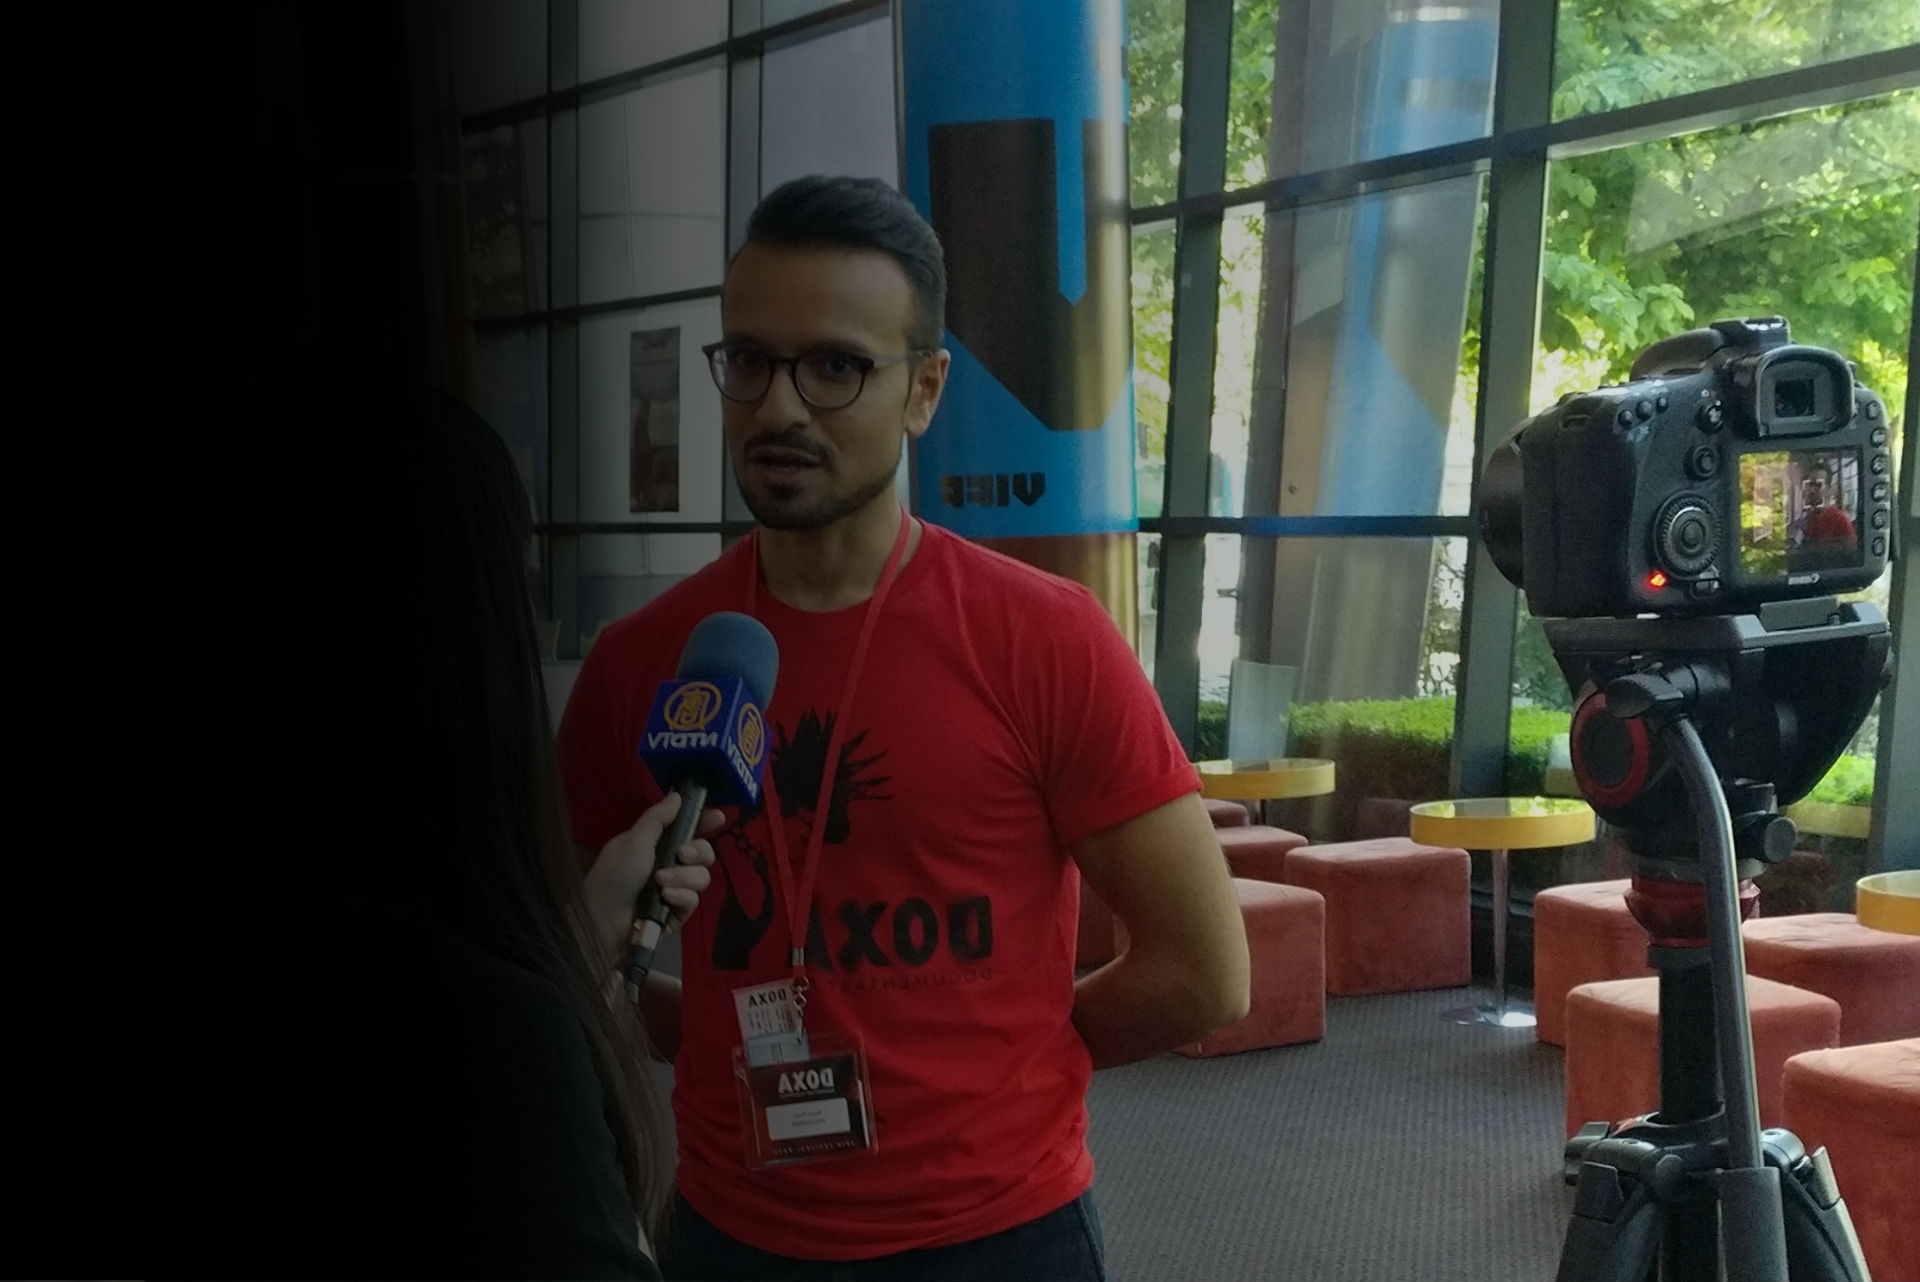
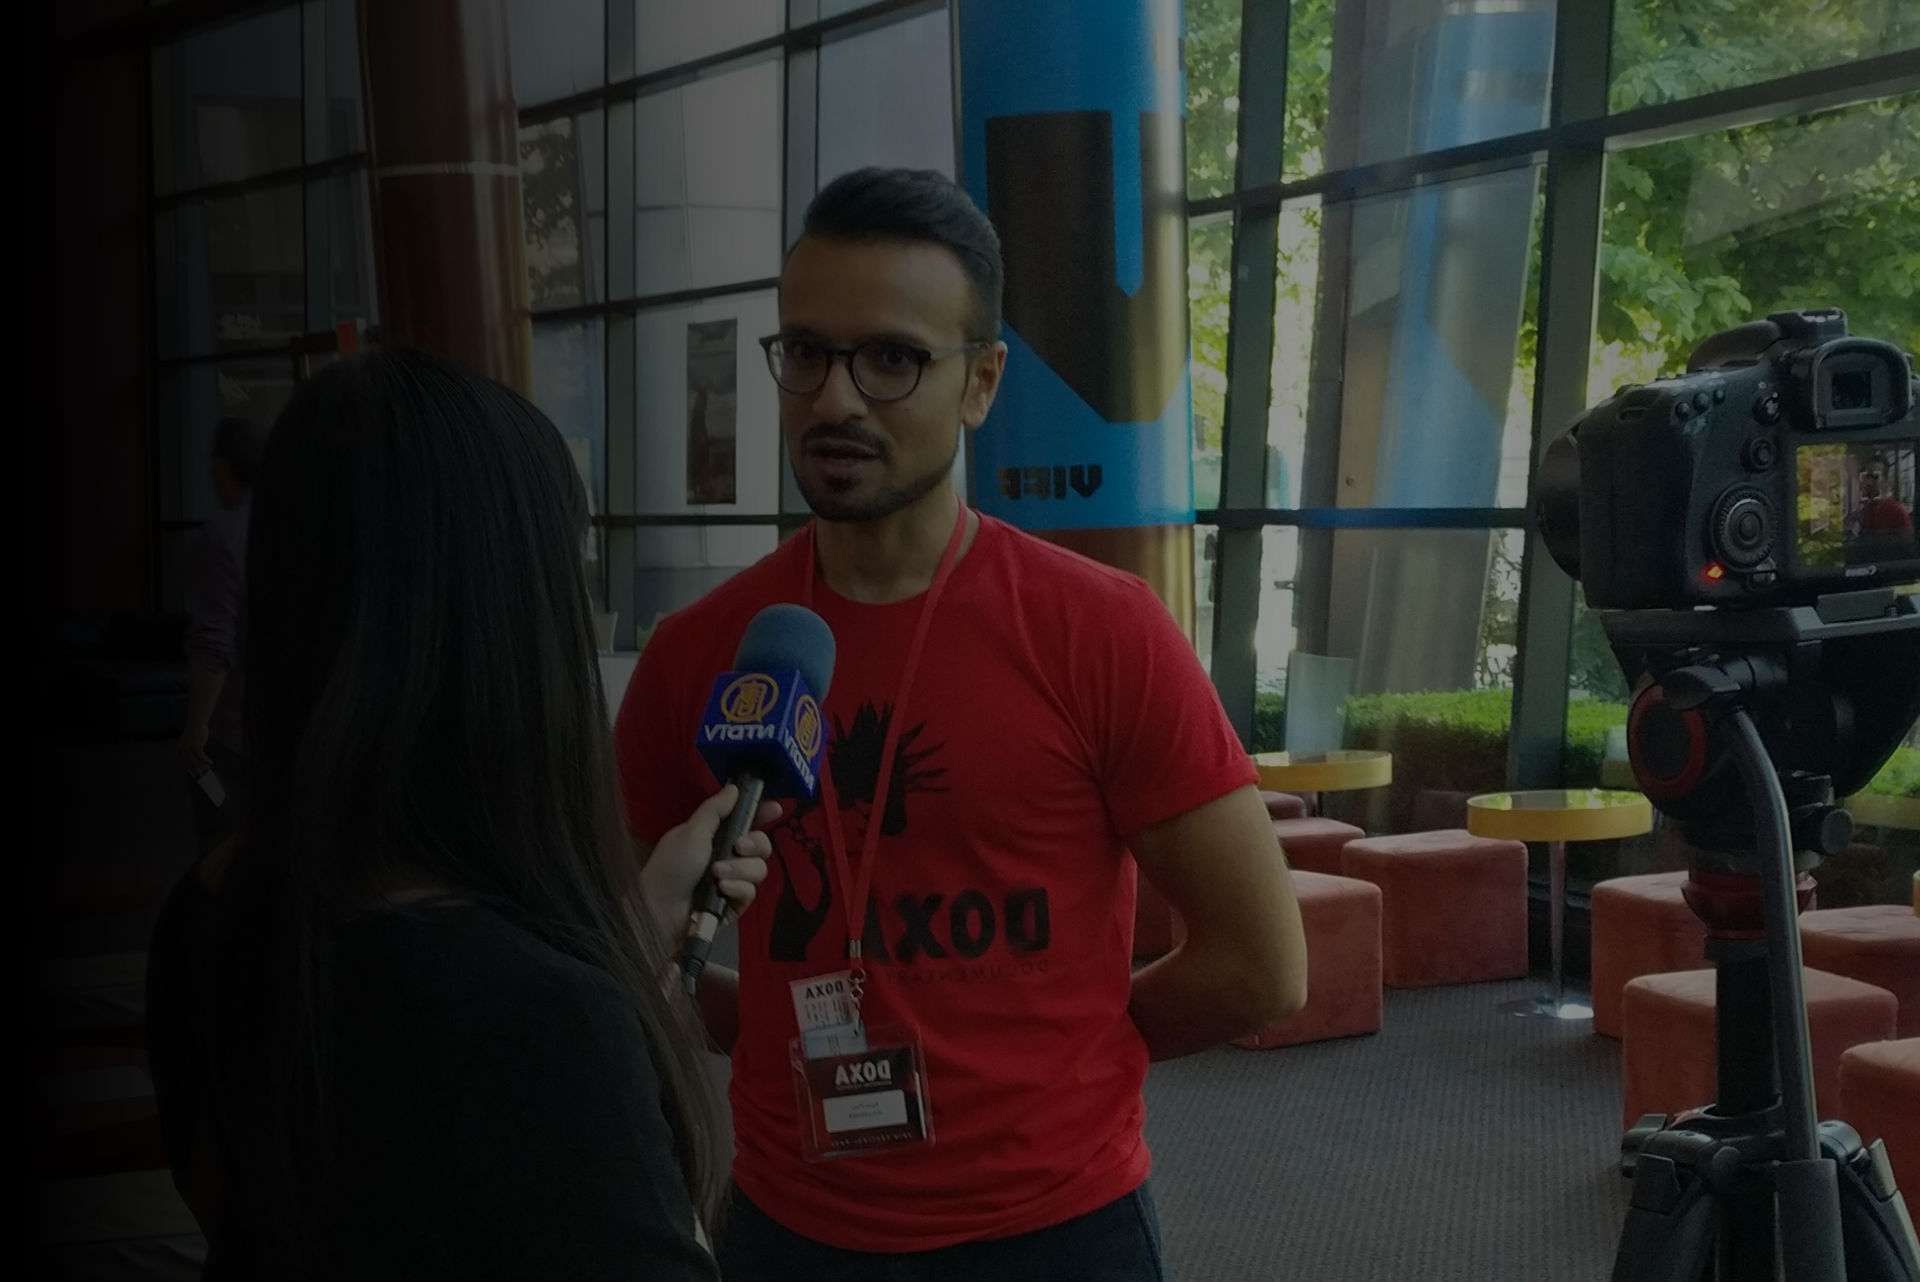
bugfix white line in pictures. Add more shadow to picture. Add google tagmanager and also change content

diff --git a/index.htm b/index.htm
@@ -28,8 +28,20 @@
     
       gtag('config', 'UA-99165516-3');
     </script>
+
+    <!-- Google Tag Manager -->
+    <script>(function(w,d,s,l,i){w[l]=w[l]||[];w[l].push({'gtm.start':
+    new Date().getTime(),event:'gtm.js'});var f=d.getElementsByTagName(s)[0],
+    j=d.createElement(s),dl=l!='dataLayer'?'&l='+l:'';j.async=true;j.src=
+    'https://www.googletagmanager.com/gtm.js?id='+i+dl;f.parentNode.insertBefore(j,f);
+    })(window,document,'script','dataLayer','GTM-TBLPW3Z');</script>
+    <!-- End Google Tag Manager -->
   </head>
   <body data-spy="scroll" data-target="#navbar" data-offset="150" class="home" data-gr-c-s-loaded="true">
+    <!-- Google Tag Manager (noscript) -->
+      <noscript><iframe src="https://www.googletagmanager.com/ns.html?id=GTM-TBLPW3Z"
+      height="0" width="0" style="display:none;visibility:hidden"></iframe></noscript>
+  <!-- End Google Tag Manager (noscript) -->
     <div id="preloader" >
         <div class='pre'>
             <span>
@@ -98,9 +110,9 @@
             <div class="col-10 offset-1 col-sm-8 offset-md-3 col-md-7 offset-lg-2 col-lg-6 col-xl-5">
               <h1><strong>AARON M PINTO</strong></h1><h2>Technical Infrastructure Project Manager</h2>
               <div class="intro">
-                <p>Hi there, thanks for visiting. I hope you enjoy your stay and that you leave knowing better who I am and 
-                  how we can work together for a better world.</p><p>Through your stay, please know that I am determined 
-                  to build and provide critical infrastructure for the most vulnerable members of our global community, as 
+                <p>Hi there, thanks for visiting! I hope you enjoy your stay and that you leave feeling inspired, knowing better who I am and
+                  how we can do our part together to shape a better world for all.</p><p>Through your stay, please remember that I am determined 
+                  to build and provide urgently needed infrastructure for the most vulnerable members of our global community, as 
                   I have done thus far in a $35M+ project portfolio.</p><p>I truly believe that it is our 
                   responsibility to help save every life that can be saved and to empower those lives to change their worlds 
                   for the better. Please join me in achieving this goal.</p>
@@ -135,8 +147,9 @@
               <h2>Organizational Transformation</h2>
               <div class="intro">
                 <p>This project is featured as it involved very complex manoeuvring of both human and capital assets 
-                  at all levels of my organization in an especially political initiative.</p><p>I was elected by executives to improve patient care 
-                  for the entire province by managing a multi-year assessment and
+                  at all levels of my organization in an especially political initiative.</p><p>I was elected by executives to improve
+                    the effectiveness of patient care 
+                  for the entire province of British Columbia (BC), Canada, by managing a multi-year assessment and
                   transition of over $21M in assets from various Health Authorities to being managed directly by the 
                   Ministry of Health.</p><p>I authored several business cases to acquire funding and support and
                   managed several hundred people via over 20 leadership-level working groups across the province through the transition. </p>
@@ -172,14 +185,14 @@
         <section id="infrastructure" class="slide">
             <div class="row">
               <div class="col-10 offset-1 col-sm-8 offset-md-3 col-md-7 offset-lg-2 col-lg-6 col-xl-5">
-                <h2>Full Hospital Site Build</h2>
+                <h2>Full Hospital Site Construction</h2>
                 <div class="intro">
                   <p> This project is featured to capture my role in the build of a full tower within a hospital site. 
                     In this project, with the focus of providing the best treatment and support for pre- and post-natal women, I managed the full 
                       technical scope of a multi-year, multi-million dollar project within the BC Women's Hospital site.</p><p>With the primary 
                       challenge in this project being a tightly constrained budget, it was key that the vast number of technical 
                       pieces was captured and implemented without impact to budget and schedule in remediation.</p><p>
-                      The project was being executed successfully through the coordination of various incoming clinical departments alongside technical specialists, 
+                      The successful execution of the project required the effective coordination of various incoming clinical departments alongside technical specialists, 
                       Project Managers, architects, engineering, construction, telephony, electrical, and cabling companies.
                     </p>
                 </div>
@@ -202,7 +215,7 @@
                     ensuring that the concurrent renovations, all constrained primarily by schedule, were phased iteratively such that 
                     patient care was not impacted while 
                     the work progressed. As with the previous project, various trades groups were managed to accomplish the tasks.</p><p>I was also elected to manage the full technical 
-                    design and build of an entire net-new tower.</p>
+                    design and construction of an entire net-new tower.</p>
               </div>
             </div>
           </div>
@@ -215,14 +228,14 @@
         <section id="construction" class="slide">
             <div class="row">
               <div class="col-10 offset-1 col-sm-8 offset-md-3 col-md-7 offset-lg-2 col-lg-6 col-xl-5">
-                <h2><span>Full Clinical Site Build</span></h2>
+                <h2><span>Full Clinical Site Construction</span></h2>
                 <div class="intro">
-                  <p>I featured this project to capture my role in the net-new build of a full clinical site. 
+                  <p>I featured this project to capture my role in the net-new construction of a full clinical site. 
                     With the personal goal of improving mental health care to the most vulnerable members of society, I managed the entire 
                      build of a Child and Youth Mental Health clinic that now provides the best 
-                    support available.</p><p>The key challenge in this project was, beyond ensuring the technical and infrastructure readiness 
-                    of the site, consolidating various geographically dispersed teams was effectively performed such that care of the youth was not
-                    impacted in any way.
+                    support available.</p><p>The key challenge in this project, beyond ensuring the technical and infrastructure readiness 
+                    of the site, was the effective and careful consolidation of various geographically dispersed teams such that 
+                    care of at-risk youth was not impacted in any way.
                     </p>
                 </div>
               </div>
@@ -258,12 +271,12 @@
               <div class="col-10 offset-1 col-sm-8 offset-md-3 col-md-7 offset-lg-2 col-lg-6 col-xl-5">
                 <h2><span>Province-Wide Technical Refreshes</span></h2>
                 <div class="intro">
-                  <p>This project is featured to show the skill set required to complete an over $1.2M refresh of all data storage 
+                  <p>In this project, I managed the successful completion of an over $1.2M refresh of all data storage 
                     and server infrastructure of an entire data centre.</p><p>In likely my most human resource constrained project to date, the 
-                    challenge here was ensuring that all clinical services remained uninterrupted through the refresh with the constrained access
+                    challenge here was ensuring that all clinical services remained uninterrupted through the refresh despite the constrained access
                     to resources who could quickly and effectively complete the tasks.</p><p>This project also involved 
-                  the highly labour-intensive identification of all technical clinical assets, mindfully engaging with several hundred stakeholders to manage
-                  the needed downtimes and workarounds required.</p>
+                  the highly labour-intensive identification of all technical clinical assets and mindful engagement of several hundred stakeholders to manage
+                  the downtimes and workarounds required.</p>
                 </div>
               </div>
             </div>
@@ -280,7 +293,7 @@
               <div class="intro">
                 <p> With the ultimate aim of improving patient care equivalently to all primary and remote communities throughout the province, 
                   I managed a provincial deployment of the MS Skype for Business application.</p><p>The primary challenge in this project was the 
-                  drastic level of unknown present in the scope of the project, due to no existing database capturing the in-scope assets. 
+                  drastic level of unknown factors in the scope of the project, due to no existing database capturing the in-scope assets. 
                   As such, the coordination of IBM in completion of the deployment and testing of several thousand devices had to be managed 
                   accordingly.</p><p>A very intricate phased approach was used, alongside ensuring the availability of a strong technical support 
                   system to remediate issues that arose post-migration.
@@ -301,9 +314,9 @@
               <div class="intro">
                 <p>Once the Fentanyl overdose mortality rate crossed before unthought of thresholds, I was elected to help manage this crisis
                   from an infrastructure perspective.</p><p>Certainly, the primary challenge faced here was the critical timeline as fatalities were
-                  occurring at a shocking level each day.</p><p>I first retrofitted key clinics within the heart of where the highest rates of mortality
+                  occurring at a shocking level each day.</p><p>My first action was to retrofit key clinics within the heart of where the highest rates of mortality
                   were occurring, to convert them into safe-injection sites where substance users could be managed more directly and where first
-                  response could be provided immediately. This has had a lasting impact in lowering mortality rates.</p>
+                  response could be provided immediately. Mortality rates have continued to stabalize since that time.</p>
               </div>
             </div>
           </div>
@@ -396,7 +409,7 @@
             <div class="col-10 offset-1 col-sm-8 offset-md-3 col-md-7 offset-lg-2 col-lg-6 col-xl-5">
               <h2><strong>Let's Collaborate</strong></h2>
               <div class="intro">
-                <p>Thanks for spending this time with me! Do reach out and let us start a discussion on how we can make this world a safer and healthier place for all.</p><p>I'm happy to just chat and exchange ideas, which in many cases proves to be invaluable, so do reach out to me via email through the links on the side or else directly at 'am.pinto@outlook.com'. I am also glad to link over Twitter and LinkedIn.</p><p>However you choose to reach out, know that I am thoroughly looking forward to chatting with you!</p>
+                <p>Thanks for spending this time with me! Do reach out and let us start a discussion on how we can make our world a safer and healthier place for all.</p><p>I'm happy to connect and exchange ideas so do send me a message via the email link or else directly at 'am.pinto@outlook.com'. I am also happy to engage via Twitter, LinkedIn, or Skype.</p><p>However you choose to reach out, know that I am thoroughly looking forward to meeting you!</p>
               </div>
             </div>
             <!--mailto:am.pinto@outlook.com?subject=Let's Collaborate"-->
